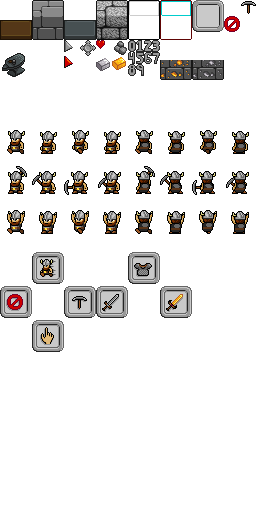
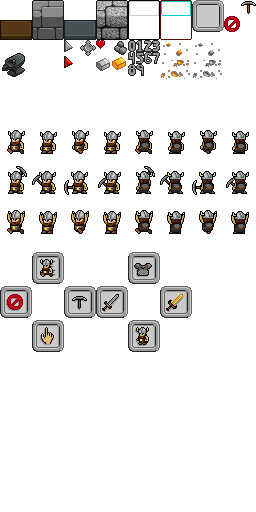
Beginning crafting

Changed region(s): [[0.625, 0.0938, 0.875, 0.1562], [0.5, 0.625, 0.625, 0.6875]]

diff --git a/src/ardust/client/GameCore.java b/src/ardust/client/GameCore.java
@@ -189,6 +189,15 @@ public class GameCore {
                         case USE:
                             selectedDwarf.use(currentActionMenu.location);
                             break;
+                        case ATTEMPTING_ARMOR_PURCHASE:
+                            network.send(new DwarfRequestPacket(selectedDwarf.id(), DwarfRequest.CraftArmor, Orientation.NORTH));
+                            break;
+                        case ATTEMPTING_SWORD_PURCHASE:
+                            network.send(new DwarfRequestPacket(selectedDwarf.id(), DwarfRequest.CraftSword, Orientation.NORTH));
+                            break;
+                        case ATTEMPTING_GOLD_SWORD_PURCHASE:
+                            network.send(new DwarfRequestPacket(selectedDwarf.id(), DwarfRequest.CraftGoldSword, Orientation.NORTH));
+                            break;
                         default:
                             break;
                     }

diff --git a/src/ardust/server/Player.java b/src/ardust/server/Player.java
@@ -110,6 +110,20 @@ public class Player {
         values.set(Constants.V_PLAYER_GOLD, values.get(Constants.V_PLAYER_GOLD) + q);
     }
 
+    public int getStone()
+    {
+        return values.get(Constants.V_PLAYER_STONES);
+    }
+
+    public int getIron()
+    {
+        return values.get(Constants.V_PLAYER_IRON);
+    }
+
+    public int getGold()
+    {
+        return values.get(Constants.V_PLAYER_GOLD);
+    }
 
     ByteBuffer buffer = ByteBufferBuffer.alloc(16000);
 

diff --git a/src/ardust/entities/Entity.java b/src/ardust/entities/Entity.java
@@ -22,12 +22,15 @@ public class Entity {
         MINING
     }
 
+
+
     public Integer id;
     public Point3 position = new Point3();
     public Kind kind = Kind.DWARF;
     public Orientation orientation = Orientation.SOUTH;
     public Mode mode = Mode.IDLE;
     public int health = 3;
+    public boolean armor, sword, goldSword;
     Values values;
 
     public Entity(Integer id) {

diff --git a/src/ardust/server/Dwarves.java b/src/ardust/server/Dwarves.java
@@ -38,6 +38,15 @@ public class Dwarves {
                 }
 
                 break;
+            case CraftArmor:
+                entity.
+                break;
+            case CraftSword:
+
+                break;
+            case CraftGoldSword:
+
+                break;
 
             default:
                 entity.mode = Entity.Mode.IDLE;

diff --git a/src/ardust/shared/DwarfRequest.java b/src/ardust/shared/DwarfRequest.java
@@ -2,7 +2,10 @@ package ardust.shared;
 
 public enum DwarfRequest {
     Walk,
-    Mine
+    Mine,
+    CraftSword,
+    CraftArmor,
+    CraftGoldSword
 //    Stop interruption isn't supported, repeating stuff is clientside, stop it there
     // etc
 }
